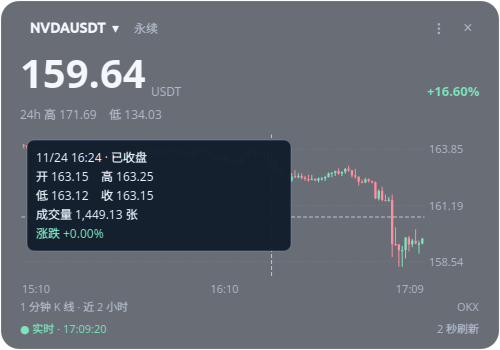
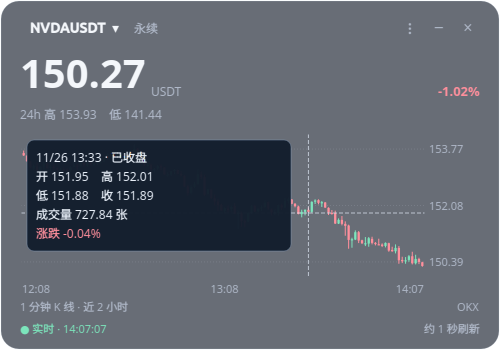
Speed up quotes and document transparent compact mode

diff --git a/widget.py b/widget.py
@@ -31,6 +31,10 @@ API_BASE = "https://openapi.okx.com"
 INSTRUMENT = "NVDA-USDT-SWAP"
 ANTHROPIC = "ANTHROPIC-USDT-SWAP"
 COMPACT_INSTRUMENTS = (ANTHROPIC, INSTRUMENT)
+QUOTE_INTERVAL = 1
+CANDLE_INTERVAL = 10
+MENU_STYLE = ("QMenu {background:#182235; color:#eef2f7; padding:6px;}"
+              "QMenu::item {padding:6px 20px;} QMenu::item:selected {background:#2d3f59;}")
 GREEN = "#7ce5bc"
 RED = "#ff8f9c"
 MUTED = "#b0b9c9"
@@ -53,6 +57,16 @@ DISPLAY_NAMES = {
 
 def display_symbol(instrument):
     return "ANT" if instrument == ANTHROPIC else instrument.split("-")[0]
+
+
+def add_background_options(menu, window):
+    group = QActionGroup(menu)
+    for label, alpha in (("完全透明", 0), ("70% 透明", 77), ("半透明", 160), ("接近不透明", 230)):
+        action = menu.addAction(label)
+        action.setCheckable(True)
+        action.setChecked(alpha == window.background_alpha)
+        group.addAction(action)
+        action.triggered.connect(lambda checked, value=alpha: window.set_background(value))
 
 
 class InstrumentDialog(QDialog):
@@ -285,7 +299,7 @@ class MarketWorker(QThread):
                 if candle_request is not None and candle_request.done():
                     try:
                         self.candles.emit(candle_instrument, candle_request.result())
-                        next_candles = now + 30 if candle_instrument == instrument else 0
+                        next_candles = now + CANDLE_INTERVAL if candle_instrument == instrument else 0
                     except Exception:
                         next_candles = now + 10 if candle_instrument == instrument else 0
                     candle_request = None
@@ -313,7 +327,7 @@ class MarketWorker(QThread):
                 for symbol in watched:
                     if symbol not in ticker_requests and now >= next_ticker.get(symbol, 0):
                         ticker_requests[symbol] = pool.submit(get_ticker, symbol)
-                        next_ticker[symbol] = now + 2
+                        next_ticker[symbol] = now + QUOTE_INTERVAL
                 self.msleep(100)
 
 
@@ -518,6 +532,7 @@ class CompactTicker(QWidget):
     def __init__(self, settings):
         super().__init__(flags=Qt.Tool | Qt.FramelessWindowHint | Qt.WindowStaysOnTopHint)
         self.settings = settings
+        self.background_alpha = self.settings.value("compact_background_alpha", 160, type=int)
         self.drag_start = None
         self.dragging = False
         self.installEventFilter(self)
@@ -526,12 +541,10 @@ class CompactTicker(QWidget):
         self.quotes = {}
         self.errors = set()
         self.entries = {}
-        self.setObjectName("compactTicker")
-        self.setAttribute(Qt.WA_StyledBackground)
+        self.setAttribute(Qt.WA_TranslucentBackground)
         self.setStyleSheet(
-            "QWidget#compactTicker {background:#121c2c; border:1px solid #283a51;}"
             "QPushButton {background:transparent; color:#eef3fb; border:0; border-radius:4px;}"
-            "QPushButton:hover,QPushButton:focus {background:#253750;}"
+            "QPushButton:hover,QPushButton:focus {background:rgba(37,55,80,200);}"
             "QLabel {color:#eef3fb;}"
         )
         layout = QHBoxLayout(self)
@@ -539,7 +552,7 @@ class CompactTicker(QWidget):
         layout.setSpacing(4)
         expand = QPushButton("▤")
         expand.setFixedSize(26, 26)
-        expand.setToolTip("点击展开当前品种 K 线，按住拖动行情条")
+        expand.setToolTip("点击展开当前品种 K 线，按住拖动，右键调整透明度")
         expand.setAccessibleName("展开当前品种 K 线")
         expand.installEventFilter(self)
         expand.clicked.connect(lambda: self.expand_requested.emit(""))
@@ -619,6 +632,26 @@ class CompactTicker(QWidget):
             self.quotes[instrument] = quote
             self.errors.discard(instrument)
 
+    def paintEvent(self, event):
+        painter = QPainter(self)
+        painter.setRenderHint(QPainter.Antialiasing)
+        painter.setBrush(QColor(18, 28, 44, self.background_alpha))
+        painter.setPen(QPen(QColor(107, 131, 164, min(self.background_alpha, 64)), 1))
+        painter.drawRoundedRect(QRectF(self.rect()).adjusted(0.5, 0.5, -0.5, -0.5), 5, 5)
+
+    def contextMenuEvent(self, event):
+        menu = QMenu(self)
+        menu.setStyleSheet(MENU_STYLE)
+        add_background_options(menu, self)
+        menu.exec_(event.globalPos())
+        event.accept()
+
+    def set_background(self, alpha):
+        self.background_alpha = alpha
+        self.settings.setValue("compact_background_alpha", alpha)
+        self.settings.sync()
+        self.update()
+
     def refresh(self):
         for instrument, (button, price, change) in self.entries.items():
             quote = self.quotes.get(instrument)
@@ -638,7 +671,8 @@ class CompactTicker(QWidget):
                 change_text, color = "延迟" if status == "行情延迟" else "断线", "#f5cf84"
             change.setText(change_text)
             change.setStyleSheet(f"color:{color};")
-            button.setToolTip(f"点击展开 {display_symbol(instrument)} K 线 · {status} · 24 小时涨跌幅\n按住拖动行情条")
+            button.setToolTip(f"点击展开 {display_symbol(instrument)} K 线 · {status} · 24 小时涨跌幅\n"
+                              "按住拖动，右键调整透明度")
 
     def closeEvent(self, event):
         event.accept()
@@ -735,7 +769,7 @@ class TickerWindow(QWidget):
         self.status_label = self.label("● 正在连接…", 8, "#f5cf84")
         footer.addWidget(self.status_label)
         footer.addStretch()
-        footer.addWidget(self.label("2 秒刷新", 8, MUTED))
+        footer.addWidget(self.label(f"约 {QUOTE_INTERVAL} 秒刷新", 8, MUTED))
         layout.addLayout(footer)
         # Let the containing window receive drag and context-menu events.
         for child in self.findChildren(QLabel):
@@ -902,16 +936,8 @@ class TickerWindow(QWidget):
 
     def show_menu(self, position):
         menu = QMenu(self)
-        menu.setStyleSheet("QMenu {background:#182235; color:#eef2f7; padding:6px;}"
-                           "QMenu::item {padding:6px 20px;} QMenu::item:selected {background:#2d3f59;}")
-        opacity_menu = menu.addMenu("背景透明度")
-        group = QActionGroup(opacity_menu)
-        for label, alpha in (("完全透明", 0), ("70% 透明", 77), ("默认半透明", 160), ("接近不透明", 230)):
-            action = opacity_menu.addAction(label)
-            action.setCheckable(True)
-            action.setChecked(alpha == self.background_alpha)
-            group.addAction(action)
-            action.triggered.connect(lambda checked, value=alpha: self.set_background(value))
+        menu.setStyleSheet(MENU_STYLE)
+        add_background_options(menu.addMenu("背景透明度"), self)
         top = menu.addAction("保持置顶")
         top.setCheckable(True)
         top.setChecked(bool(self.windowFlags() & Qt.WindowStaysOnTopHint))
@@ -1022,6 +1048,7 @@ class TickerWindow(QWidget):
 
 def main():
     parser = argparse.ArgumentParser(description="NVDAUSDT 透明桌面行情")
+    parser.add_argument("--compact", action="store_true", help="以精简行情条启动")
     parser.add_argument("--smoke-test", type=Path, help="读取至少三次行情后写入验证报告并退出")
     parser.add_argument("--snapshot", type=Path, help="验证模式下保存窗口截图")
     args = parser.parse_args()
@@ -1043,7 +1070,10 @@ def main():
     window = TickerWindow(args.smoke_test, args.snapshot)
     signal.signal(signal.SIGTERM, lambda signum, frame: window.close())
     signal.signal(signal.SIGINT, lambda signum, frame: window.close())
-    window.show()
+    if args.compact and not args.smoke_test:
+        window.show_compact()
+    else:
+        window.show()
     return app.exec_()
 
 

diff --git a/README.md b/README.md
@@ -1,27 +1,32 @@
 # OKX 桌面实时行情
 
-一个基于 Python 和 PyQt5 的透明桌面行情工具，默认显示 NVDAUSDT 永续合约，支持切换 OKX 当前可用的 USDT 永续合约。
+在 Linux 桌面用置顶窗口查看 OKX USDT 永续行情。完整窗口默认打开 NVDA 的 1 分钟 K 线，缩小后可同时查看 ANT（Anthropic / Claude）和 NVDA。报价约每 1 秒请求一次，使用 OKX 公开行情接口，无需 API 密钥。
 
-![K 线与鼠标悬停信息](preview.png)
+## 功能与使用截图
 
-截图中的价格为拍摄时的行情快照。
+截图使用新版程序拍摄，价格为拍摄时的行情快照。
 
-## 功能
+### 完整窗口与 K 线
 
-- 红绿蜡烛 K 线和上下影线，显示近两小时的 1 分钟行情。
-- 鼠标悬停显示十字线、时间、开盘价、最高价、最低价、收盘价、成交量和涨跌幅。
-- 左上角切换品种，提供半导体、AI 科技、加密货币、自选和全部分类。
-- 支持代码和中文名称搜索，添加到自选并切换。
-- 按合约最小价格变动单位显示报价精度。
-- 支持拖动、背景透明度调整和置顶。
-- 支持缩成顶部行情条，同时查看 ANT 和 NVDA 的价格及 24 小时涨跌幅。
-- 精简行情条可以按住拖动，会记住自己的位置。
-- 显示断线、行情延迟及自动重试状态。
-- 记录窗口位置、透明度、自选列表和上次选中的品种。
+显示近两小时的 1 分钟蜡烛 K 线、最新价和 24 小时行情。把鼠标移到 K 线上，可查看十字线及对应时间、开高低收、成交量和涨跌幅。价格精度随所选合约切换。拖动窗口可调整位置，右键或点击右上角的 **⋮** 可调整背景透明度和置顶。
 
-![品种搜索与切换](selector-preview.png)
+![NVDA 实时 K 线、鼠标悬停详情和约 1 秒刷新指示](preview.png)
 
-![ANT 和 NVDA 精简行情条](compact-preview.png)
+### 精简行情条
+
+点击完整窗口右上角的 **−**，切换到同时显示 **ANT** 与 **NVDA** 价格及 24 小时涨跌幅的精简条。按住行情条拖动即可移动，右键可以选择完全透明、70% 透明、半透明或接近不透明。点击 **ANT** 或 **NVDA** 展开对应 K 线，点击左侧图表按钮恢复之前查看的品种。精简条单独记住位置和透明度。
+
+![精简行情条的 70% 透明与完全透明效果](compact-preview.png)
+
+上方为 70% 透明，下方为完全透明。两种效果使用同一演示底色。
+
+### 品种搜索与自选
+
+点击完整窗口左上角的品种名称，可浏览半导体、AI 科技、加密货币、自选和全部分类。也可以按代码或中文名称搜索。选中结果后点击 **添加到自选并切换**。自选列表和当前品种会保存在本机。
+
+**ANT 指 Anthropic（Claude）股票永续。** 可以在「AI 科技」分类中找到它，或搜索 `ANT`、`Anthropic`、`Claude`、`克劳德`。对应的 OKX API 合约代码为 `ANTHROPIC-USDT-SWAP`。
+
+![AI 科技分类与 ANT 品种选择](selector-preview.png)
 
 ## 运行环境
 
@@ -34,9 +39,9 @@ sudo apt update
 sudo apt install python3-pyqt5 python3-gi gir1.2-glib-2.0 libx11-6 xwayland xdg-user-dirs
 ```
 
-## 启动
+## 安装与启动
 
-在图形桌面的终端执行：
+在图形桌面的终端执行以下命令。
 
 ```bash
 git clone https://github.com/tulay-hub/okx-desktop-ticker.git
@@ -44,7 +49,7 @@ cd okx-desktop-ticker
 ./launch.sh
 ```
 
-创建桌面快捷方式：
+需要直接打开精简行情条时，可以在仓库目录执行 `./launch.sh --compact`。需要桌面快捷方式时，运行安装脚本。
 
 ```bash
 /usr/bin/python3 install_desktop.py
@@ -52,26 +57,15 @@ cd okx-desktop-ticker
 
 安装后双击桌面的“OKX 实时行情”。安装脚本会写入当前克隆目录的启动路径。
 
-## 操作
-
-1. 点击左上角品种名称后的下拉箭头，选择分类或搜索品种。
-2. 选中结果，点击“添加到自选并切换”。
-3. 鼠标放在 K 线上，查看对应分钟的行情。
-4. 拖动窗口调整位置，右键或右上角菜单调整透明度与置顶。
-5. 点击右上角的 **−** 缩成精简行情条。首次显示在系统顶栏下方，按住行情条任意位置可以拖动。点击 ANT 或 NVDA 展开对应的 K 线，点击行情条左侧的图表按钮展开当前品种。
-6. 点击行情窗右上角关闭按钮退出。
-
-品种列表取自 OKX 当前可用的 USDT 永续合约。预设中的品种也以实时列表为准。ANT 是 Anthropic（Claude）的股票永续合约，在 OKX API 中使用 `ANTHROPIC-USDT-SWAP`。可以在「AI 科技」中选择，也可以搜索 ANT、Anthropic、Claude 或克劳德。
-
 ## 行情与刷新
 
-使用 OKX 公共 REST API：
+品种列表取自 OKX 当前可用的 USDT 永续合约，板块预设以该列表为准。程序使用以下公开接口。
 
 - `/api/v5/public/instruments?instType=SWAP` 获取合约和报价精度。
 - `/api/v5/market/ticker` 获取最新价格与 24 小时行情。
 - `/api/v5/market/candles` 获取 1 分钟 K 线。
 
-价格约每 2 秒轮询，历史 K 线约每 30 秒同步。当前未收盘 K 线随最新报价更新。新分钟的官方 K 线尚未同步时，悬停卡片会标记“实时估算，待 K 线同步”。
+完整窗和精简条均约每 1 秒请求一次报价。完整窗口的历史 K 线约每 10 秒同步，未收盘 K 线随最新报价更新。新分钟的官方 K 线尚未同步时，悬停卡片会标记“实时估算，待 K 线同步”。遇到连接中断或行情延迟时，窗口会显示状态并继续尝试刷新。
 
 程序优先使用环境代理。环境中未设置 HTTPS 代理时，会读取 GNOME 的手动系统代理。桌面启动和终端启动均支持该行为。
 
@@ -103,4 +97,4 @@ cd okx-desktop-ticker
 
 验证要求取得至少三个不同、持续推进且足够新鲜的行情时间戳，并加载 K 线。完成后保存报告和截图并退出。
 
-已执行的桌面交互检查覆盖 K 线悬停、NVDA 切换至 AMD、连续报价、搜索、自选保存、旧品种数据过滤和报价精度。
+已在桌面检查 K 线悬停、品种切换、搜索和自选保存，以及精简条的双路报价刷新、拖动、位置恢复、透明度切换与保存、透明状态下的点击展开。
